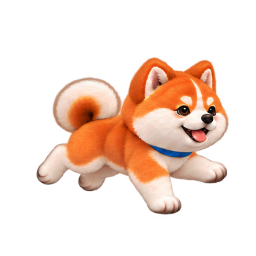
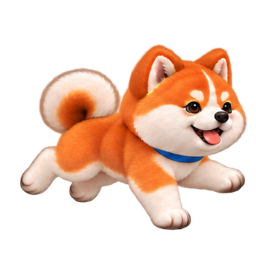
Match running artwork footprint to other pet states

Changed region(s): [[0.0625, 0.1562, 0.9688, 0.9062], [0.4062, 0.5312, 0.4375, 0.5625], [0.3438, 0.5312, 0.375, 0.5625]]

diff --git a/tools/prepare_running_frames.py b/tools/prepare_running_frames.py
@@ -15,6 +15,8 @@ if str(ROOT) not in sys.path:
 from codex_pet.art import AKITA_SIZE, _decode_rgba_png, _png  # noqa: E402
 
 SECOND_ROW_Y_OFFSET_PX = 10
+# Match the visible footprint of the other Akita states in the fixed 64dp view.
+RUNNING_ART_SCALE = 1.18
 
 
 def split_sheet(sheet: bytes) -> tuple[bytes, ...]:
@@ -32,16 +34,24 @@ def split_sheet(sheet: bytes) -> tuple[bytes, ...]:
         y1 = round((row + 1) * height / 2)
         cell_width, cell_height = x1 - x0, y1 - y0
         output = bytearray(AKITA_SIZE * AKITA_SIZE * 4)
+        canvas_center = AKITA_SIZE / 2
 
         for y in range(AKITA_SIZE):
+            # Register the source sheet's lower row, then enlarge every pose
+            # around the same canvas center without changing the GUI layout.
+            registered_y = (canvas_center
+                            + (y + 0.5 - canvas_center) / RUNNING_ART_SCALE
+                            - (SECOND_ROW_Y_OFFSET_PX if row else 0))
             source_y = max(0.0, min(cell_height - 1.0,
-                (y + 0.5) * cell_height / AKITA_SIZE - 0.5))
+                registered_y * cell_height / AKITA_SIZE - 0.5))
             top = math.floor(source_y)
             bottom = min(top + 1, cell_height - 1)
             fy = source_y - top
             for x in range(AKITA_SIZE):
+                registered_x = (canvas_center
+                                + (x + 0.5 - canvas_center) / RUNNING_ART_SCALE)
                 source_x = max(0.0, min(cell_width - 1.0,
-                    (x + 0.5) * cell_width / AKITA_SIZE - 0.5))
+                    registered_x * cell_width / AKITA_SIZE - 0.5))
                 left = math.floor(source_x)
                 right = min(left + 1, cell_width - 1)
                 fx = source_x - left
@@ -66,15 +76,6 @@ def split_sheet(sheet: bytes) -> tuple[bytes, ...]:
                     )
                 output[destination + 3] = round(alpha * 255)
 
-        if row:
-            # The source sheet registered its lower row above the upper row.
-            # Align the head and foot baselines before the loop reaches frame 4.
-            row_bytes = AKITA_SIZE * 4
-            shifted = bytearray(len(output))
-            shifted[SECOND_ROW_Y_OFFSET_PX * row_bytes:] = output[
-                :-(SECOND_ROW_Y_OFFSET_PX * row_bytes)
-            ]
-            output = shifted
         frames.append(_png(AKITA_SIZE, AKITA_SIZE, output))
     return tuple(frames)
 

diff --git a/tools/audit_animation.py b/tools/audit_animation.py
@@ -41,14 +41,14 @@ RUNNING_GAIT_PHASES = (
 RUNNING_PAW_POINTS = {
     # Paw centers in each 256 × 256 source pose, verified on the audit sheet.
     # Far paws may be shaded or briefly occluded by a near leg.
-    "hind_near": ((88, 201), (44, 168), (42, 170), (42, 160),
-                  (48, 165), (87, 192), (76, 197), (91, 199)),
-    "hind_far": ((113, 196), (103, 202), (115, 199), (81, 180),
-                 (91, 178), (106, 196), (118, 194), (105, 198)),
-    "fore_near": ((154, 201), (184, 191), (165, 185), (190, 186),
-                  (164, 196), (171, 196), (165, 193), (160, 179)),
-    "fore_far": ((189, 183), None, (210, 182), (204, 167),
-                 (213, 167), (202, 177), (198, 171), (194, 181)),
+    "hind_near": ((81, 214), (29, 175), (27, 178), (27, 166),
+                  (34, 172), (80, 204), (67, 209), (84, 212)),
+    "hind_far": ((110, 208), (98, 215), (113, 212), (73, 189),
+                 (84, 187), (102, 208), (116, 206), (101, 211)),
+    "fore_near": ((159, 214), (194, 202), (172, 195), (201, 196),
+                  (170, 208), (179, 208), (172, 205), (166, 188)),
+    "fore_far": ((200, 193), None, (225, 192), (218, 174),
+                 (228, 174), (215, 186), (211, 179), (206, 191)),
 }
 HIP_ORANGE_SOURCE_BOX = (60, 125, 135, 170)
 MIN_HIND_FOOT_X_RANGE_DP = 8.0

diff --git a/tests/test_art.py b/tests/test_art.py
@@ -72,6 +72,17 @@ class RobotArtTests(unittest.TestCase):
 
 
 class AkitaArtTests(unittest.TestCase):
+    def test_running_pet_keeps_a_similar_visible_scale_to_other_states(self) -> None:
+        def opaque_area(pixels: bytes) -> int:
+            return sum(pixels[offset] > 128
+                       for offset in range(3, len(pixels), 4))
+
+        idle_area = opaque_area(rgba_icon("idle", 0))
+        for frame in range(AKITA_FRAME_COUNTS["running"]):
+            running_area = opaque_area(rgba_icon("running", frame))
+            self.assertGreaterEqual(running_area / idle_area, 0.78, frame)
+            self.assertLessEqual(running_area / idle_area, 0.95, frame)
+
     def test_akita_is_the_default_and_robot_remains_selectable(self) -> None:
         self.assertEqual(DEFAULT_APPEARANCE, "akita")
         self.assertEqual(icon("idle"), icon("idle", appearance="akita"))

diff --git a/docs/animation-gait.md b/docs/animation-gait.md
@@ -36,6 +36,7 @@
 | 新跑姿看起来太急 | 8 帧各 60ms，一轮 0.48 秒；在约 64dp 的小形象上，连续姿势切换显得过快。 | 已放慢到每帧 80ms，一轮 0.64 秒。先用 `tools/preview_animation.py` 检查真实帧序与时长，再用 `tools/audit_animation.py --state running --cycles 2` 检查两轮接缝和动作路径；设备端重启后运行 `codex-pet test`。 |
 | 生成的动作表相邻格裁切或串入 | 整张动作表不保证每个角色都落在独立且对齐的格子里。 | 每帧按固定格子裁切成同尺寸文件，逐帧检查画布边界、透明边缘和动作顺序；不合格的裁切版不进入运行素材。 |
 | 前脚看起来同步摆动，四肢配合不自然 | 原先的 8 帧虽有后脚错相，近侧与远侧前脚在多数姿势里却贴得很近；审计也只跟踪后脚，因此无法发现前脚的相位问题。 | 重绘同一角色的 8 格动作表，让前脚依次前伸、触地和回收，保持后脚分离；在运行尺寸上标注四只脚，新增前脚分离帧数与反向移动检查。 |
+| 切换到奔跑时角色明显缩小 | 新动作表每格留白较多，初版导出时没有对照其他状态的可见轮廓面积；固定的 64dp 视图只会忠实缩放整个 256px 画布。 | 导出时以画布中心放大奔跑素材 1.18 倍，并检查 8 帧可见面积与待机帧的比例；同时保留透明边缘与循环接缝。 |
 
 “已定位”和“已修复”要分开记录。此前的彩色边缘噪点来自共享缓冲区与 Android Bitmap 的 alpha 预期不一致，已通过使用 PNG 解码路径修复，当时没有重绘素材。本次四足协调问题则修改了奔跑素材，并扩展了脚掌审计。
 
@@ -76,7 +77,7 @@
 
 当前运行审计使用 64dp 宠物尺寸、默认 3× 显示密度，并将 256px 素材经 `rgba_icon()` 和审计缩放流程渲染为 192px；四只脚的坐标与髋部锚点在 `tools/audit_animation.py` 中维护。第 1 帧远侧前脚被遮挡，不拿近侧脚掌冒充它的落点；远侧后脚有些姿势被阴影覆盖，所以按可见不透明像素检查，颜色阈值低于近侧脚。换图后必须重新检查和更新标记坐标，否则审计可能测到错误位置。当前阈值是回归检查的下限，不代表真实狗的步幅或关节角度标准。
 
-当前奔跑动作表保存在 [`docs/artwork/running-gait-sheet.png`](artwork/running-gait-sheet.png)。每格有透明留白，避免脚掌跨格或裁断。用下面的命令重新生成运行帧；`running.png` 是第 0 帧的单帧回退图，也要同步复制。生成工具对每格独立取样，以预乘 alpha 方式缩放，避免毛发边缘出现亮色晕边；同时将动作表下排统一下移 10px，使首尾和第 3→4 帧的头部位置接得上。
+当前奔跑动作表保存在 [`docs/artwork/running-gait-sheet.png`](artwork/running-gait-sheet.png)。每格有透明留白，避免脚掌跨格或裁断。用下面的命令重新生成运行帧；`running.png` 是第 0 帧的单帧回退图，也要同步复制。生成工具对每格独立取样，以预乘 alpha 方式缩放，避免毛发边缘出现亮色晕边；缩放前将动作表下排配准偏移 10px，使首尾和第 3→4 帧的头部位置接得上。所有姿势围绕画布中心放大 1.18 倍，使奔跑时的可见大小与其他状态接近。
 
 ```sh
 python tools/prepare_running_frames.py docs/artwork/running-gait-sheet.png codex_pet/assets/akita/frames/running

diff --git a/README.md b/README.md
@@ -39,7 +39,7 @@ codex-pet pet use akita
 codex-pet pet use robot
 ```
 
-The Pet is a single, roughly 64 dp floating icon. The Akita uses high-resolution, transparent 256 × 256 PNG frames in a cheerful style: a large round cream face, bright orange-red crown with a pale blaze, small upright ears, and an open smile above a compact body. Idle breathes, blinks, and slowly sways its tail through a wider arc; Running uses an eight-pose gallop with staggered hind-leg drive and separately moving near and far forepaws through reach, contact, and recovery; Needs input gives a gentle paw wave. Ready crouches slightly before one relaxed happy hop on entry, then loops slow breathing, a slow face-only blink, and a gentle tail sway. Blocked plays a short thoughtful head tilt and rests on its final pose. A steady animation clock keeps frame timing consistent while touch events are handled. The original robot remains selectable and animated. `codex-pet pet list` shows the catalog and current choice; `codex-pet pet use <id>` switches to any listed appearance. The choice is saved alongside the overlay position in `~/.config/codex-pet/config.json` and changes the live overlay when the daemon is running. Tapping has no action. To move the Pet, drag from anywhere on the icon; it follows your finger after about 6 dp of movement.
+The Pet is a single, roughly 64 dp floating icon. The Akita uses high-resolution, transparent 256 × 256 PNG frames in a cheerful style: a large round cream face, bright orange-red crown with a pale blaze, small upright ears, and an open smile above a compact body. Idle breathes, blinks, and slowly sways its tail through a wider arc; Running uses an eight-pose gallop with staggered hind-leg drive and separately moving near and far forepaws through reach, contact, and recovery. Its visible size stays comparable to the other states when the Pet switches to Running. Needs input gives a gentle paw wave. Ready crouches slightly before one relaxed happy hop on entry, then loops slow breathing, a slow face-only blink, and a gentle tail sway. Blocked plays a short thoughtful head tilt and rests on its final pose. A steady animation clock keeps frame timing consistent while touch events are handled. The original robot remains selectable and animated. `codex-pet pet list` shows the catalog and current choice; `codex-pet pet use <id>` switches to any listed appearance. The choice is saved alongside the overlay position in `~/.config/codex-pet/config.json` and changes the live overlay when the daemon is running. Tapping has no action. To move the Pet, drag from anywhere on the icon; it follows your finger after about 6 dp of movement.
 
 | State | What you see | When it changes |
 | --- | --- | --- |

diff --git a/README.zh-CN.md b/README.zh-CN.md
@@ -39,7 +39,7 @@ codex-pet pet use akita
 codex-pet pet use robot
 ```
 
-Pet 是一个约 64dp 的悬浮形象。默认秋田犬采用透明的 256 × 256 高清 PNG 帧：奶油白圆脸、明亮橘红额顶和浅色额心、短立耳、张嘴露舌的笑脸，以及紧凑的身体。待机时缓慢呼吸、偶尔眨眼，并以更明显但舒缓的幅度摆尾；运行时以 8 个连续姿势表现不对称奔跑，两只后脚错开蹬地，近侧和远侧前爪先后前伸、着地与回收；需要输入时轻轻挥爪；就绪时先轻轻蹲身蓄力，再开心跃起一次，之后缓慢呼吸、慢慢眨眼并轻轻摆尾；受阻时短暂歪头，然后停在思考姿势。经典机器人仍可切换，并保留原有动画。运行 `codex-pet pet list` 查看已支持形象和当前选择，用 `codex-pet pet use <id>` 切换到列表中的任一形象，例如 `codex-pet pet use robot`。选择与悬浮位置一起保存在 `~/.config/codex-pet/config.json`；daemon 正在运行时会立即切换。点击没有操作；如需移动，从 Pet 图标的任意位置拖动即可，移动约 6dp 后就会跟随手指。
+Pet 是一个约 64dp 的悬浮形象。默认秋田犬采用透明的 256 × 256 高清 PNG 帧：奶油白圆脸、明亮橘红额顶和浅色额心、短立耳、张嘴露舌的笑脸，以及紧凑的身体。待机时缓慢呼吸、偶尔眨眼，并以更明显但舒缓的幅度摆尾；运行时以 8 个连续姿势表现不对称奔跑，两只后脚错开蹬地，近侧和远侧前爪先后前伸、着地与回收，切换状态时保持与其他状态相近的可见大小；需要输入时轻轻挥爪；就绪时先轻轻蹲身蓄力，再开心跃起一次，之后缓慢呼吸、慢慢眨眼并轻轻摆尾；受阻时短暂歪头，然后停在思考姿势。经典机器人仍可切换，并保留原有动画。运行 `codex-pet pet list` 查看已支持形象和当前选择，用 `codex-pet pet use <id>` 切换到列表中的任一形象，例如 `codex-pet pet use robot`。选择与悬浮位置一起保存在 `~/.config/codex-pet/config.json`；daemon 正在运行时会立即切换。点击没有操作；如需移动，从 Pet 图标的任意位置拖动即可，移动约 6dp 后就会跟随手指。
 
 | 状态 | 显示内容 | 触发与持续时间 |
 | --- | --- | --- |

diff --git a/docs/architecture.md b/docs/architecture.md
@@ -63,4 +63,6 @@ For a live diagnostic, `codex-pet status` shows process and GUI health. From thi
 
 For screenshot-free visual and motion checks, run `python tools/audit_animation.py --state ready --cycles 2` or `python tools/audit_animation.py --state running --cycles 2`. It renders the production `rgba_icon()` pixels with premultiplied bilinear sampling at the 64 dp overlay size (3× density by default), writes a labeled contact sheet plus individual frames, and records frame hashes, delays, transition pixel changes, tail movement, chest stability, and (for running) all four paw paths relative to an orange hip anchor in `audit.json`. The running contact sheet marks near and far hind paws in magenta and cyan, and near and far forepaws in green and orange. The audit checks marker visibility, separate tracks, and forepaw phase staggering. Set `--density` to match another device. This checks the production frame pixels and schedule after display-size scaling; it does not claim to reproduce Android's exact image-filtering implementation.
 
+The overlay keeps the same 64 dp viewport across states, so equal 256 px frame dimensions do not guarantee equal apparent mascot size. When replacing artwork, compare the opaque silhouette area with an idle frame and inspect state transitions at display size; the running-frame regression test enforces a comparable visible footprint.
+
 For the gait rationale, pose planning, frame-art consistency, and paw-track audit workflow used for the Akita, see [the dog gait animation guide](animation-gait.md).
